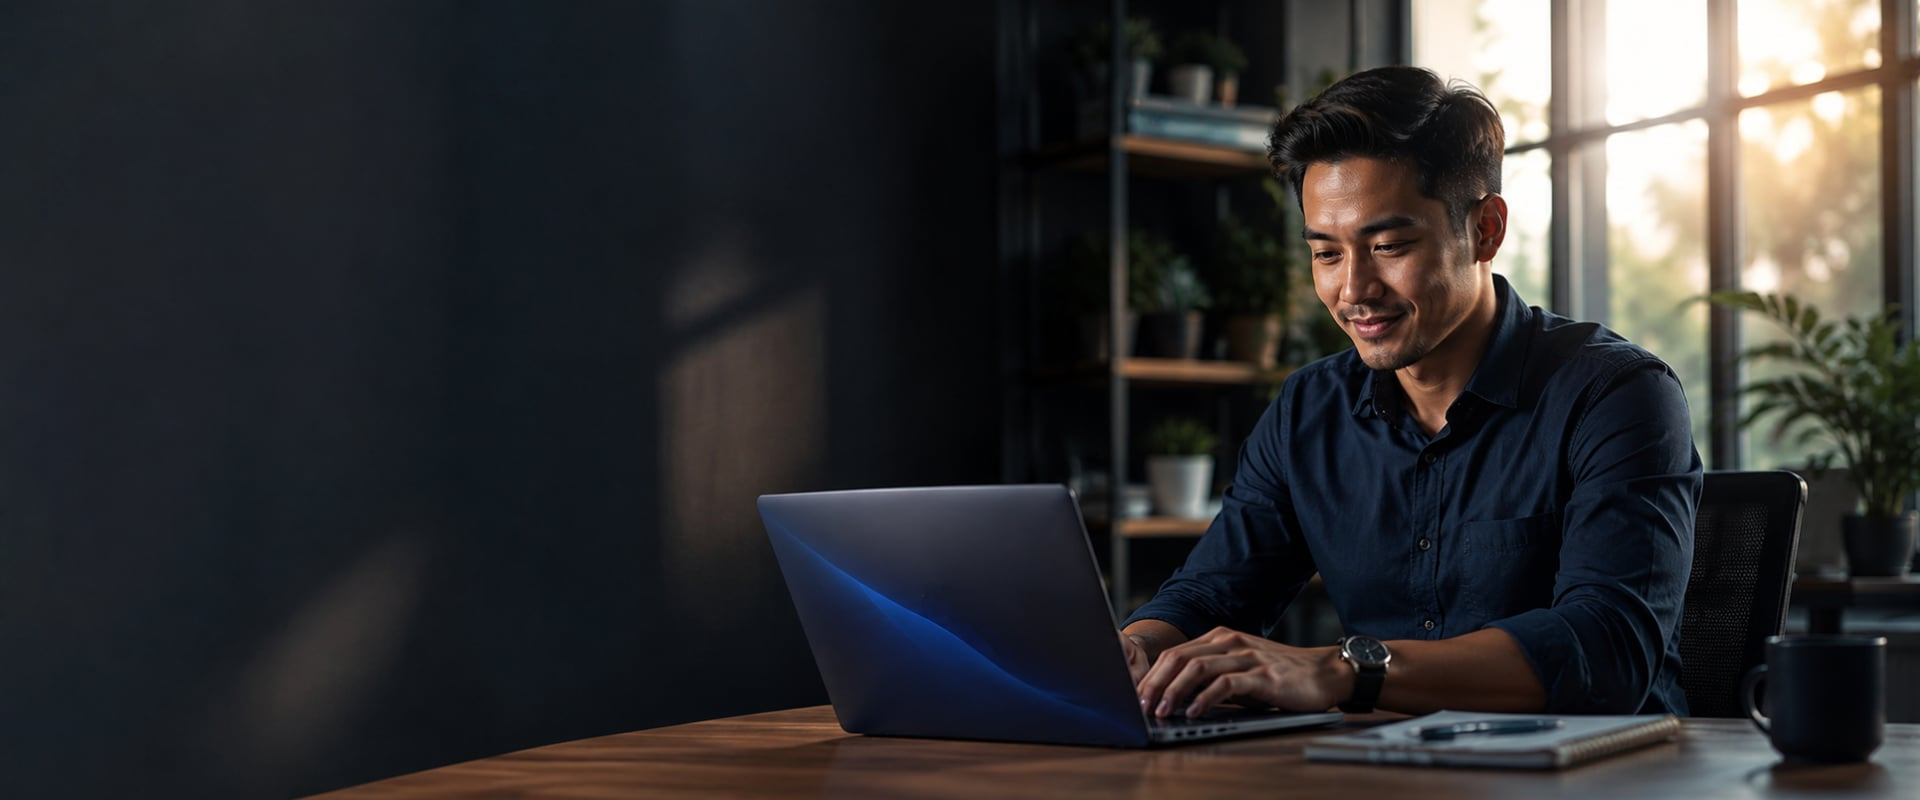
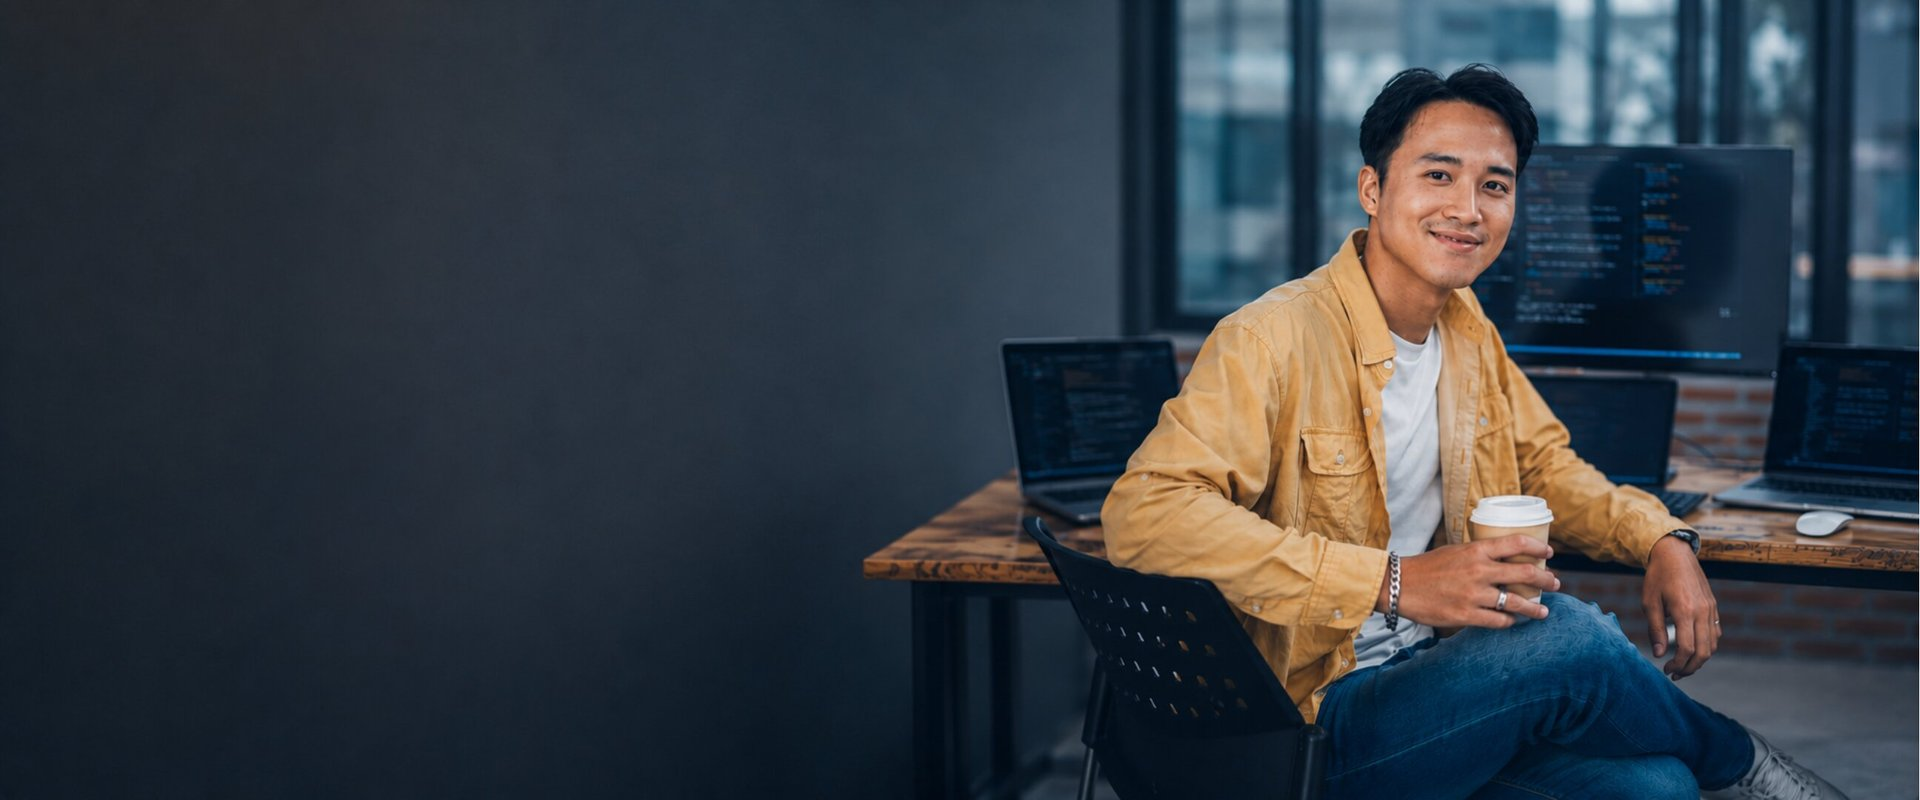
Update hero background with new client-supplied photo
Swaps in the new hero photo (client-supplied, matching the existing
2.4:1 desktop aspect exactly). Desktop crop is a direct resize of the
source; mobile crop is a tighter 9:16 slice around the subject,
upscaled to match the site's existing mobile hero dimensions.
Screen content stays out of focus (abstract code-editor glow, not
legible UI), consistent with the hero photo guardrail in CLAUDE.md
§0.7. Updated backgroundAlt to describe the new photo accurately.

Claude-Session: https://claude.ai/code/session_01X6mm8xhPbN9yuPqAkgQrZ9

diff --git a/src/content/site.ts b/src/content/site.ts
@@ -48,7 +48,7 @@ export const HERO = {
   trustLine: "Built for real businesses. Designed around real business needs.",
   backgroundImageDesktop: "/images/hero/hero-bg-wide.jpg",
   backgroundImageMobile: "/images/hero/hero-bg-mobile.jpg",
-  backgroundAlt: "Business owner working on a laptop in a modern office, warm evening light",
+  backgroundAlt: "Business owner smiling with coffee in a modern office, surrounded by laptops and monitors",
 } as const;
 
 // ---------------------------------------------------------------------------
